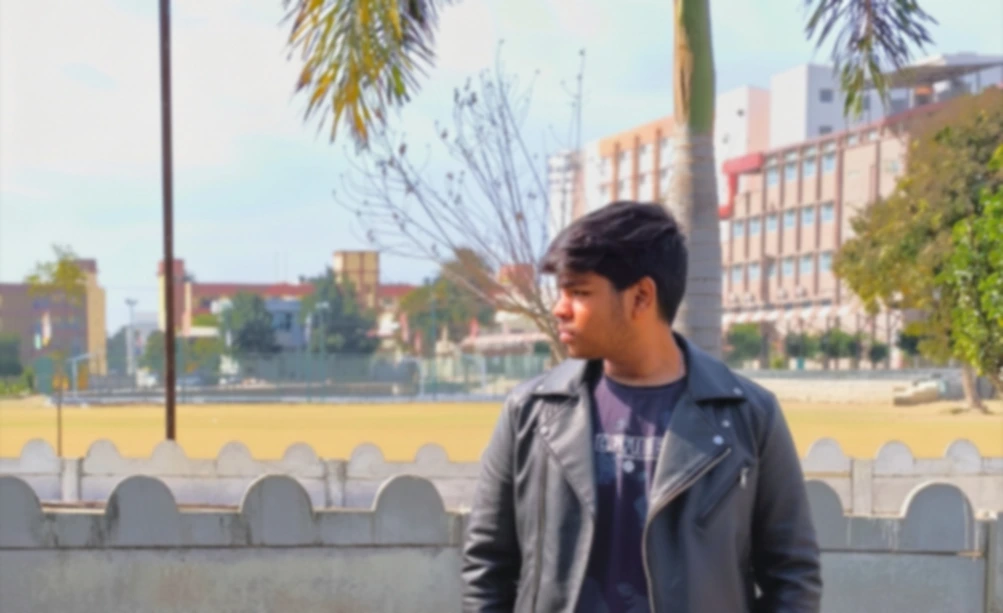
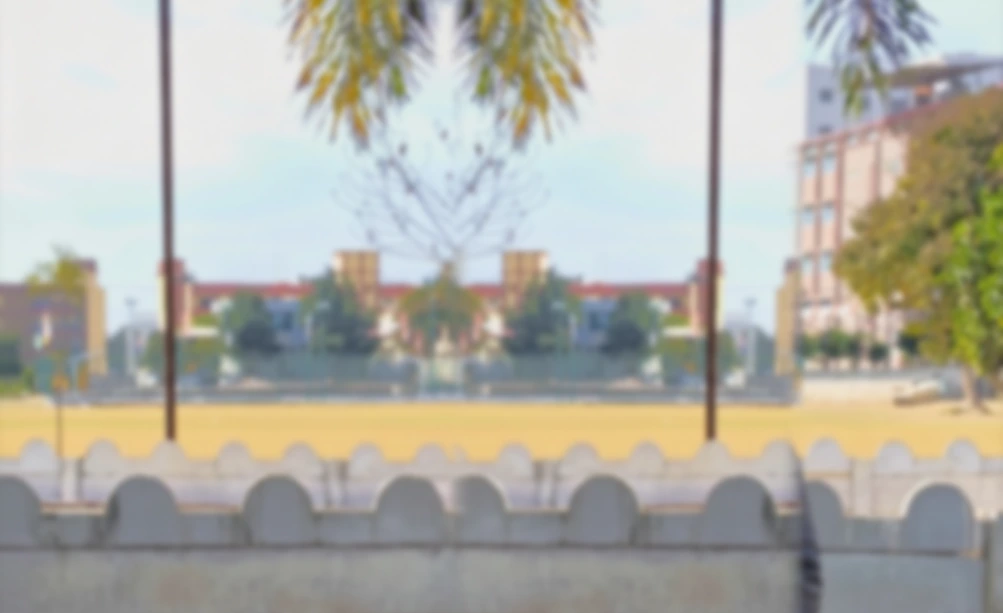
Pixel-perfect ability card: fix duplicate ghost portrait in background, remove nameplate artifact, enable instant 3D card open

diff --git a/index.html b/index.html
@@ -2815,7 +2815,7 @@ if (['#works', '#about', '#contact'].includes(location.hash)){
   // the ThreeUI card is the card, on every device. It may take a moment to load, and it is allowed to.
   // The layered CSS card below is kept for one case only: a browser with no WebGL at all, or an engine that fails outright.
   const hasGL = (() => { try { const c = document.createElement('canvas'); return !!(c.getContext('webgl2') || c.getContext('webgl')); } catch (e) { return false; } })();
-  let frame = null, back = null, timer = 0, isOpen = false, useLite = !hasGL, liteReady = null, openT = 0, handing = false;
+  let frame = null, back = null, timer = 0, isOpen = false, useLite = true, liteReady = null, openT = 0, handing = false;
   const progress = p => { ld.style.setProperty('--p', p); pct.textContent = Math.round(p * 100) + '%'; };
   // the light card's faces, decoded before it is shown so it never appears half-drawn
   // the faces are marked lazy so their weight never lands on a visit that gets the 3D card;

diff --git a/js/main.js b/js/main.js
@@ -1427,7 +1427,7 @@ if (['#works', '#about', '#contact'].includes(location.hash)){
   // the ThreeUI card is the card, on every device. It may take a moment to load, and it is allowed to.
   // The layered CSS card below is kept for one case only: a browser with no WebGL at all, or an engine that fails outright.
   const hasGL = (() => { try { const c = document.createElement('canvas'); return !!(c.getContext('webgl2') || c.getContext('webgl')); } catch (e) { return false; } })();
-  let frame = null, back = null, timer = 0, isOpen = false, useLite = !hasGL, liteReady = null, openT = 0, handing = false;
+  let frame = null, back = null, timer = 0, isOpen = false, useLite = true, liteReady = null, openT = 0, handing = false;
   const progress = p => { ld.style.setProperty('--p', p); pct.textContent = Math.round(p * 100) + '%'; };
   // the light card's faces, decoded before it is shown so it never appears half-drawn
   // the faces are marked lazy so their weight never lands on a visit that gets the 3D card;
